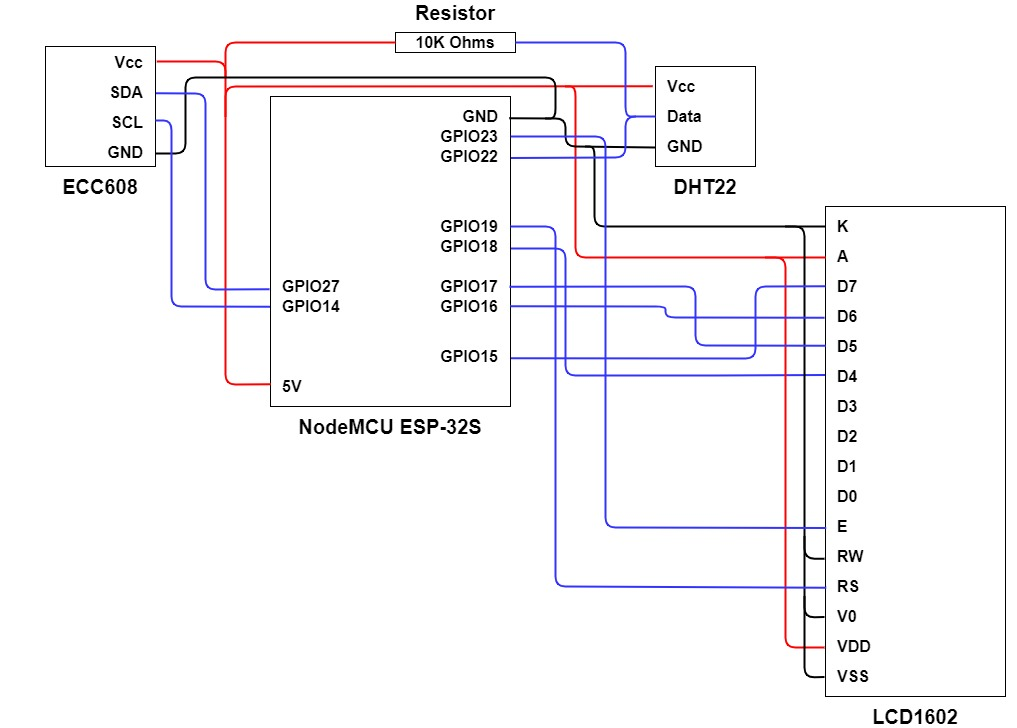
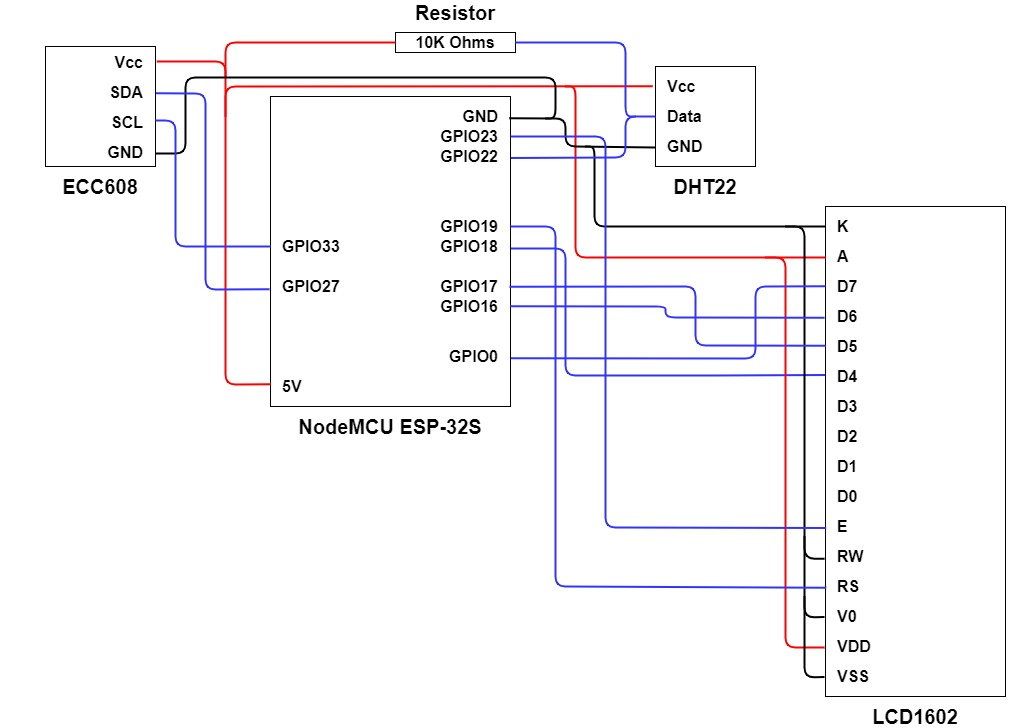
ecc608 uses pin 33 now, lcd uses pin 0 now

diff --git a/components/cryptoauthlib/lib/hal/hal_esp32_i2c.c b/components/cryptoauthlib/lib/hal/hal_esp32_i2c.c
@@ -21,7 +21,7 @@
 #include "esp_log.h"
 
 #define SDA_PIN                            27
-#define SCL_PIN                            14
+#define SCL_PIN                            33
 #define ACK_CHECK_EN                       0x1              /*!< I2C master will check ack from slave*/
 #define ACK_CHECK_DIS                      0x0              /*!< I2C master will not check ack from slave */
 #define ACK_VAL                            0x0              /*!< I2C ack value */

diff --git a/main/main.cpp b/main/main.cpp
@@ -31,7 +31,7 @@ void app_main()
 	cfg.wake_delay = 1500;
 	cfg.rx_retries = 20;
 
-	LiquidCrystal lcd(19, 23, 18, 17, 16, 15);
+	LiquidCrystal lcd(19, 23, 18, 17, 16, 0);
 	lcd.begin(16, 2);
 	lcd.print("Starting up...");
 	
